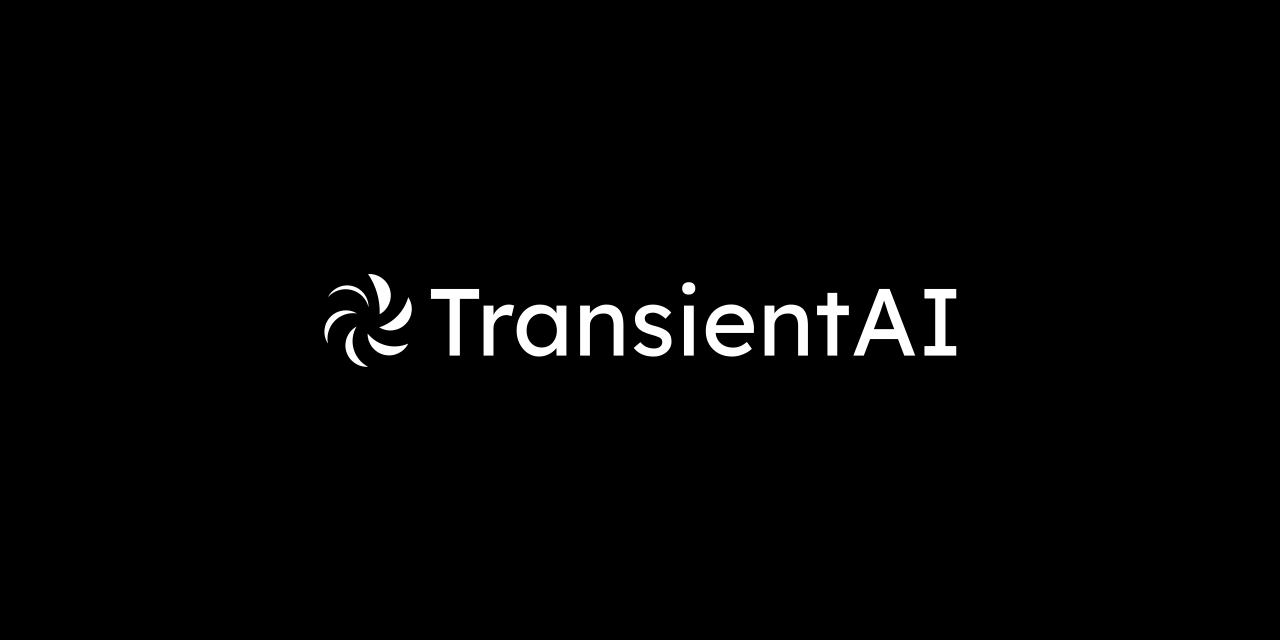
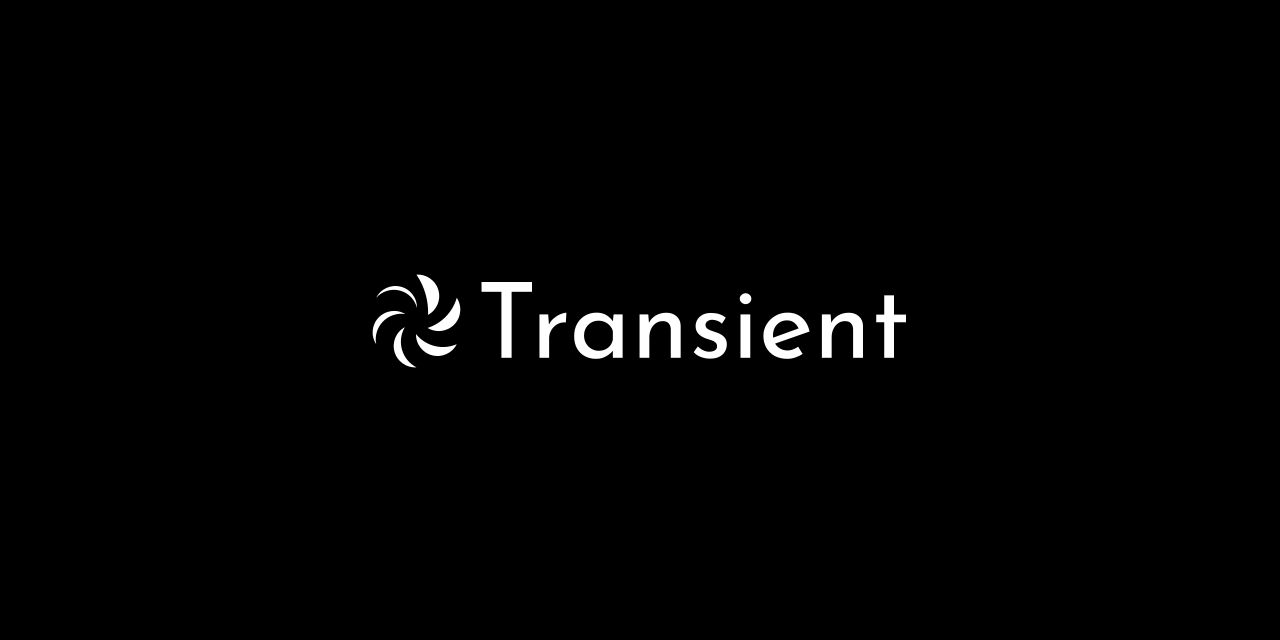
Rename project to Transient (TransientAI is now the creator's name)
Banners, social preview, README, CONTRIBUTING, REUSE.toml, Cargo.toml and
the repo URL now say Transient / DawsMacs/Transient. Copyright and licence
holder (DawsMacs, AGPL-3.0-or-later) are unchanged.

Changed region(s): [[0.25, 0.4375, 0.75, 0.5625]]

diff --git a/CLAUDE.md b/CLAUDE.md
@@ -16,5 +16,5 @@ whether or not it works. The code is `baby/` (pure Rust, zero dependencies, buil
 - **Pessimism is input, never a brake.** Daws wants risks phrased as design constraints/terrain/checkpoints that redirect the work. Do not propose kill criteria or stop the project over difficulty; do not claim certainty of success.
 - **Absolute freedom, within the stated goals** (frontier-class intelligence on typical hardware, light on RAM/memory, built around Adaptive Learning, Rust-first, measured in joules not just parameters). Default to doing the plan.
 - **After every new capability, ask adversarial questions** (the apart/minus/"N less than ten" ambiguity bit three times) and keep batteries of must-refuse questions in the tests.
-- **Do not run system-setting commands** (e.g. the RAPL `chmod`): give Daws the command instead. **This is a git repo** (`origin` = `git@github.com:DawsMacs/TransientAI.git`, public, AGPL-3.0-or-later; use his global git account). He has authorised commits and pushes to `origin main` for this work; still ask before force-pushing, adding other remotes or changing repo settings. The repo is public: never commit `.local/` or details of the sibling project.
+- **Do not run system-setting commands** (e.g. the RAPL `chmod`): give Daws the command instead. **This is a git repo** (`origin` = `git@github.com:DawsMacs/Transient.git`, public, AGPL-3.0-or-later; use his global git account). He has authorised commits and pushes to `origin main` for this work; still ask before force-pushing, adding other remotes or changing repo settings. The repo is public: never commit `.local/` or details of the sibling project.
 - The sibling project `~/Hiraketa` (Nana) has its own `CLAUDE.md`; its offline-mode work is Nana's private research and is separate from Transient.

diff --git a/README.md b/README.md
@@ -1,15 +1,15 @@
 <p align="center">
-  <img src="assets/banner.svg#gh-dark-mode-only" alt="TransientAI" width="81%">
-  <img src="assets/banner-light.svg#gh-light-mode-only" alt="TransientAI" width="81%">
+  <img src="assets/banner.svg#gh-dark-mode-only" alt="Transient" width="69%">
+  <img src="assets/banner-light.svg#gh-light-mode-only" alt="Transient" width="69%">
 </p>
 
 <p align="center">
   <a href="LICENSE"><img alt="License: AGPL-3.0-or-later" src="https://img.shields.io/badge/license-AGPL--3.0--or--later-blue"></a>
-  <a href="https://github.com/DawsMacs/TransientAI/actions/workflows/ci.yml"><img alt="CI" src="https://github.com/DawsMacs/TransientAI/actions/workflows/ci.yml/badge.svg"></a>
+  <a href="https://github.com/DawsMacs/Transient/actions/workflows/ci.yml"><img alt="CI" src="https://github.com/DawsMacs/Transient/actions/workflows/ci.yml/badge.svg"></a>
   <img alt="Rust, zero dependencies" src="https://img.shields.io/badge/rust-zero%20dependencies-orange">
 </p>
 
-**TransientAI is an experimental learning system written in Rust, built to run on ordinary consumer hardware.** It explores
+**Transient is an experimental learning system written in Rust, built to run on ordinary consumer hardware.** It explores
 *adaptive learning*: a system that keeps learning while it is used, decides for itself *how* to learn each kind of thing, and is
 measured by what it costs (operations, memory, estimated joules) rather than by parameter count alone.
 

diff --git a/TransientVision.md b/TransientVision.md
@@ -404,3 +404,7 @@ He trusts the GNU foundation: Stallman went through a lot to invent copyleft. On
 
 - Daws's ladder (hypothesis, theory, law) is implemented as: a labelled **guess** (a trusted rule used outside the range taught or checked), a **checked** range (a confirmed answer extends where it may speak as fact), and **taught** facts. See the 2026-10-21 section of `baby/README.md`.
 - The honesty rule became "never *silently* wrong": WRONG (a fact stated and false) must stay at 0, a labelled guess may be wrong, and what is measured is whether guesses are calibrated and whether one correction fixes the next mistake.
+
+### Context added by the assistant (labelled): the rename (2026-10-21)
+
+Daws renamed the GitHub repository from `DawsMacs/TransientAI` to `DawsMacs/Transient`. **TransientAI is now the name of the creator of the Transient project** (Daws is its owner and founder); the project, the repo, the README and the banners are called **Transient**. The copyright and licence holder is unchanged: DawsMacs, AGPL-3.0-or-later. Earlier entries above that say `DawsMacs/TransientAI` record the name at the time and are left as written; GitHub redirects the old URL.

diff --git a/TransientHandover.md b/TransientHandover.md
@@ -19,7 +19,7 @@ Order of reading: this file, then `TransientVision.md` (Daws's own words: never 
 
 ## 2. Where the work stands (2026-10-21)
 
-Everything is in `~/Transient/baby/` (pure Rust, **zero dependencies**, builds offline, **87 tests pass**, ~10k lines). Git repo, `origin` = `git@github.com:DawsMacs/TransientAI.git` (**public**, Daws's global account `DawsMacs`, SSH),
+Everything is in `~/Transient/baby/` (pure Rust, **zero dependencies**, builds offline, **87 tests pass**, ~10k lines). Git repo, `origin` = `git@github.com:DawsMacs/Transient.git` (**public**, Daws's global account `DawsMacs`, SSH),
 branch `main`, **CI green** (`.github/workflows/ci.yml`: build, tests, and the scorecard's WRONG column must be 0.0 %). Licence `AGPL-3.0-or-later` (SPDX headers, `REUSE.toml`, `LICENSE`, `LICENSES/`), DCO not CLA (`CONTRIBUTING.md`).
 All work from this session is committed and pushed (last code commit: "Rules that change regime: careful mode, checks for rules and selections").
 

diff --git a/CONTRIBUTING.md b/CONTRIBUTING.md
@@ -1,6 +1,6 @@
 # Contributing
 
-TransientAI is open research and is licensed `AGPL-3.0-or-later`. Contributions are welcome under the same licence.
+Transient is open research and is licensed `AGPL-3.0-or-later`. Contributions are welcome under the same licence.
 
 ## Licence and sign-off (DCO, no CLA)
 
